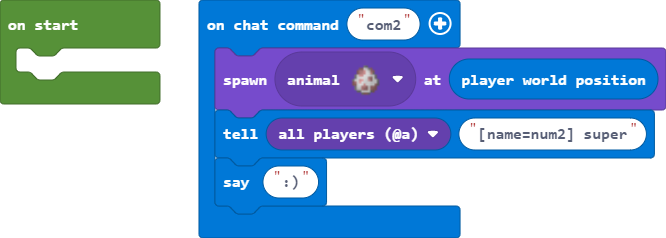
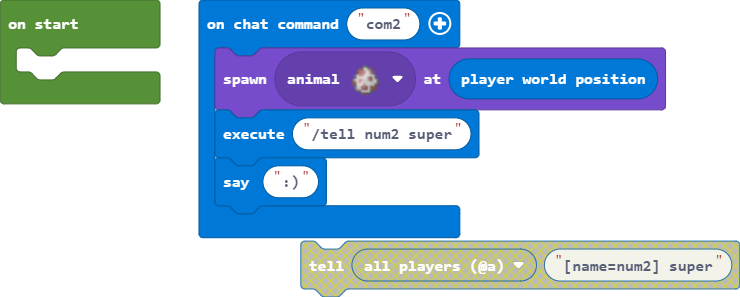
tell num2 super

diff --git a/main.ts b/main.ts
@@ -1,5 +1,7 @@
 player.onChat("com2", function () {
     mobs.spawn(SHEEP, player.position())
-    player.tell(mobs.target(ALL_PLAYERS), "[name=num2] super")
+    player.execute(
+    "/tell num2 super"
+    )
     player.say(":)")
 })
